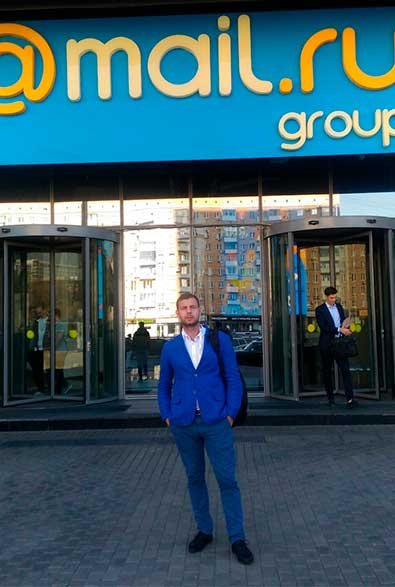
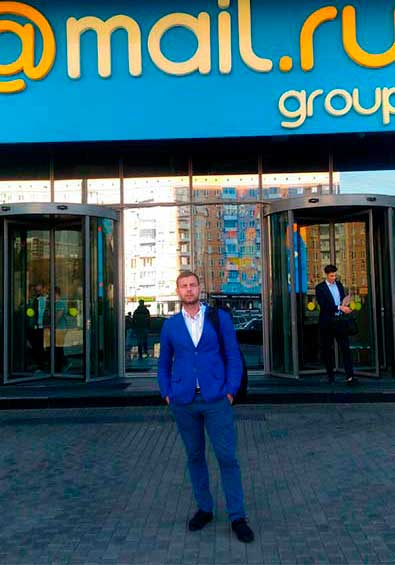
price complete

diff --git a/index.html b/index.html
@@ -127,7 +127,7 @@
         <div class="container">
             <div class="about__wrapper">
                 <div class="about__photo">
-                    <img src="img/main_photo.jpg" alt="photo">
+                    <img src="img/main_photo1.jpg" alt="photo">
                 </div>
                 <div class="about__descr">
                     <h2 class="title title_fz16 about__title">Про меня</h2>
@@ -181,8 +181,8 @@
     </section>
     <section class="resume">
         <div class="container">
-            <h2 class="title title_fz16 resume__title">Опыт</h2>
-            <div class="title title_fz36 resume__subtitle">Чем я буду полезен</div>
+            <h2 class="title title_fz16 title__section-title">Опыт</h2>
+            <div class="title title_fz36 title__section-subtitle">Чем я буду полезен</div>
             <div class="divider"></div>
 
             <div class="resume__wrapper">
@@ -254,8 +254,8 @@
     </section>
     <section class="skills">
         <div class="container">
-            <h2 class="title title_fz16 resume__title">Навыки</h2>
-            <div class="title title_fz36 resume__subtitle">Что я использую в работе</div>
+            <h2 class="title title_fz16 title__section-title">Навыки</h2>
+            <div class="title title_fz36 title__section-subtitle">Что я использую в работе</div>
             <div class="divider"></div>
             <div class="skills__wrapper">
                 <div class="skills__column">
@@ -334,8 +334,8 @@
                 <div class="skills__technologies-wrapper">
                     <div class="skills__technologies-item">
                         <div class="skills__technologies-title">
-                            <h2 class="title title_fz16 about__title">Создание сайтов</h2>
-                            <h2 class="title_fz16 title_prct">80%</h2>
+                            <h2 class="title title_fz14 skills__title">Создание сайтов</h2>
+                            <h2 class="title_fz14 title_prct">100%</h2>
                         </div>
                         <div class="divider__technologies-not">
                             <div class="divider__technologies"></div>
@@ -344,8 +344,8 @@
                     </div>
                     <div class="skills__technologies-item">
                         <div class="skills__technologies-title">
-                            <h2 class="title title_fz16 about__title">Создание приложений</h2>
-                            <h2 class="title_fz16 title_prct">0%</h2>
+                            <h2 class="title title_fz14 skills__title">Создание приложений</h2>
+                            <h2 class="title_fz14 title_prct">0%</h2>
                         </div>
                         <div class="divider__technologies-not">
                             <div class="divider__technologies"></div>
@@ -354,8 +354,8 @@
                     </div>
                     <div class="skills__technologies-item">
                         <div class="skills__technologies-title">
-                            <h2 class="title title_fz16 about__title">Работа с данными</h2>
-                            <h2 class="title_fz16 title_prct">20%</h2>
+                            <h2 class="title title_fz14 skills__title">Работа с данными</h2>
+                            <h2 class="title_fz14 title_prct">20%</h2>
                         </div>
                         <div class="divider__technologies-not">
                             <div class="divider__technologies"></div>
@@ -364,8 +364,8 @@
                     </div>
                     <div class="skills__technologies-item">
                         <div class="skills__technologies-title">
-                            <h2 class="title title_fz16 about__title">Креативность</h2>
-                            <h2 class="title_fz16 title_prct">50%</h2>
+                            <h2 class="title title_fz14 skills__title">Креативность</h2>
+                            <h2 class="title_fz14 title_prct">50%</h2>
                         </div>
                         <div class="divider__technologies-not">
                             <div class="divider__technologies"></div>
@@ -374,8 +374,8 @@
                     </div>
                     <div class="skills__technologies-item">
                         <div class="skills__technologies-title">
-                            <h2 class="title title_fz16 about__title">Создание дизайна</h2>
-                            <h2 class="title_fz16 title_prct">30%</h2>
+                            <h2 class="title title_fz14 skills__title">Создание дизайна</h2>
+                            <h2 class="title_fz14 title_prct">30%</h2>
                         </div>
                         <div class="divider__technologies-not">
                             <div class="divider__technologies"></div>
@@ -384,26 +384,80 @@
                     </div>
                     <div class="skills__technologies-item">
                         <div class="skills__technologies-title">
-                            <h2 class="title title_fz16 about__title">Soft skills</h2>
-                            <h2 class="title_fz16 title_prct">50%</h2>
+                            <h2 class="title title_fz14 about__title">Soft skills</h2>
+                            <h2 class="title_fz14 title_prct">50%</h2>
                         </div>
                         <div class="divider__technologies-not">
                             <div class="divider__technologies"></div>
                         </div>
-                        
-                    </div>
-                    
-                   
-                    
-
-                   
-
+                    </div>  
                 </div>                    
             </div>
 
         </div>
     </section>
-            
+            <section class="portfolio">
+                <div class="container">
+                    <h2 class="title title_fz16 title__section-title">Портфолио</h2>
+                    <div class="title title_fz36 title__section-subtitle">Мои работы</div>
+                    <div class="divider"></div>
+                    <div class="portfolio__wrapper">
+                        <a href="/uber" class="portfolio__item">
+                            <img src="img/works/uber.jpg" alt="uber">
+                        </a>
+                        <a href="#" class="portfolio__item">
+                            <img src="img/works/zapchasti.jpg" alt="zapchastivcvet">
+                        </a>
+                        <a href="/pulse" class="portfolio__item">
+                            <img src="img/works/pulse.jpg" alt="pulse">
+                        </a>
+                        <a href="#" class="portfolio__item vertical">
+                            <img src="img/works/plans.jpg" alt="uber">
+                        </a>
+                        <a href="#" class="portfolio__item">
+                            <img src="img/works/ipad.jpg" alt="ipad">
+                        </a>
+                        <a href="#" class="portfolio__item horizontal">
+                            <img src="img/works/mac.jpg" alt="mac">
+                        </a>
+                    </div>
+                </div>
+            </section>
+
+            <section class="price">
+
+                <div class="container">
+                    <h2 class="title title_fz16 title__section-title">Прайс-лист</h2>
+                    <div class="divider"></div>
+                    <div class="price__wrapper">
+                        <div class="price__item">
+                            <div class="title title_fz14 price__title">Landing-page от 8000 руб.</div>
+                            <div class="price__subtitle">Одностраничный сайт для презентации услуг/товаров/...</div>
+                        </div>
+                        <div class="price__item">
+                            <div class="title title_fz14 price__title">Landing-page от 8000 руб.</div>
+                            <div class="price__subtitle">Одностраничный сайт для презентации услуг/товаров/...</div>
+                        </div>
+                        <div class="price__item">
+                            <div class="title title_fz14 price__title">Landing-page от 8000 руб.</div>
+                            <div class="price__subtitle">Одностраничный сайт для презентации услуг/товаров/...</div>
+                        </div>
+                        <div class="price__item">
+                            <div class="title title_fz14 price__title">Landing-page от 8000 руб.</div>
+                            <div class="price__subtitle">Одностраничный сайт для презентации услуг/товаров/...</div>
+                        </div>
+                        <div class="price__item">
+                            <div class="title title_fz14 price__title">Landing-page от 8000 руб.</div>
+                            <div class="price__subtitle">Одностраничный сайт для презентации услуг/товаров/...</div>
+                        </div>
+                        <div class="price__item">
+                            <div class="title title_fz14 price__title">Landing-page от 8000 руб.</div>
+                            <div class="price__subtitle">Одностраничный сайт для презентации услуг/товаров/...</div>
+                        </div>
+                    </div>  
+                </div>
+
+            </section>
      
     
     <script src="js/script.js"></script>

diff --git a/sass/blocks/_title.scss b/sass/blocks/_title.scss
@@ -31,5 +31,17 @@
     &_prct{
         text-align: right;
     }
-
+    &__section-title{
+        position: relative;
+        text-align: center;
+        @include before_circle;
+        &:before{
+            top: -6px;
+            left: 50%;
+            transform: translateX(-50%);
+        }
+    }
+    &__section-subtitle{
+        text-align: center;
+    }
 }

diff --git a/sass/base/_mixins.scss b/sass/base/_mixins.scss
@@ -12,3 +12,17 @@
         
     }
 }
+@mixin after_circle {
+    &:before {
+        content: '';
+        position: absolute;
+        z-index: -1;
+        top: 2px;
+        left: -25px;
+        width: 15px;
+        height: 15px;
+        border-radius: 100%;
+        background: $main_color;
+        
+    }
+}

diff --git a/sass/style.scss b/sass/style.scss
@@ -44,3 +44,5 @@
 @import 'blocks/about';
 @import 'blocks/resume';
 @import 'blocks/skils';
+@import 'blocks/portfolio';
+@import 'blocks/price';
